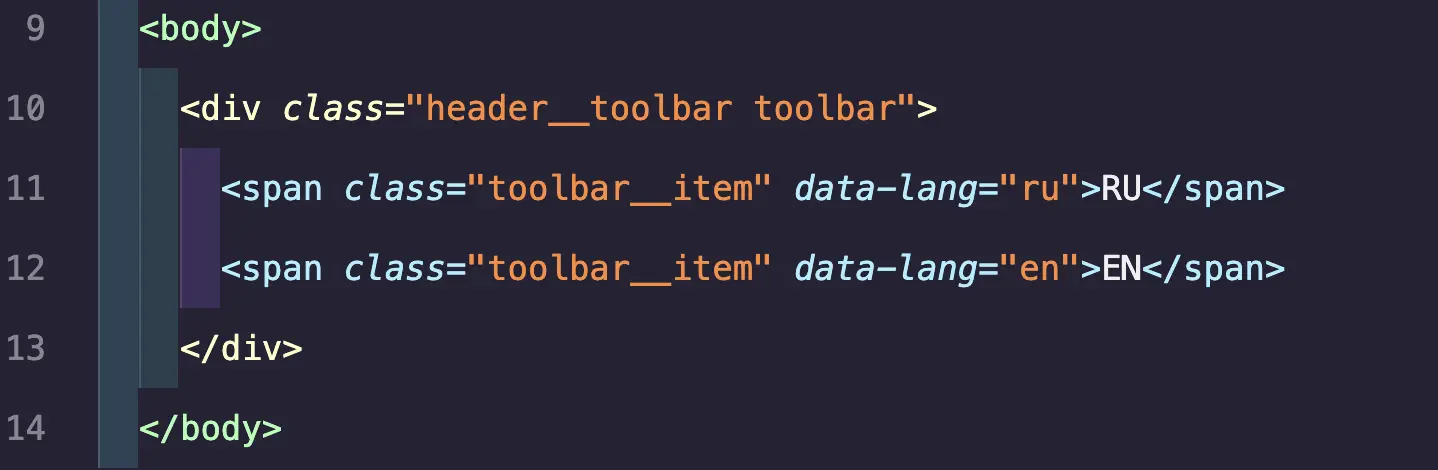
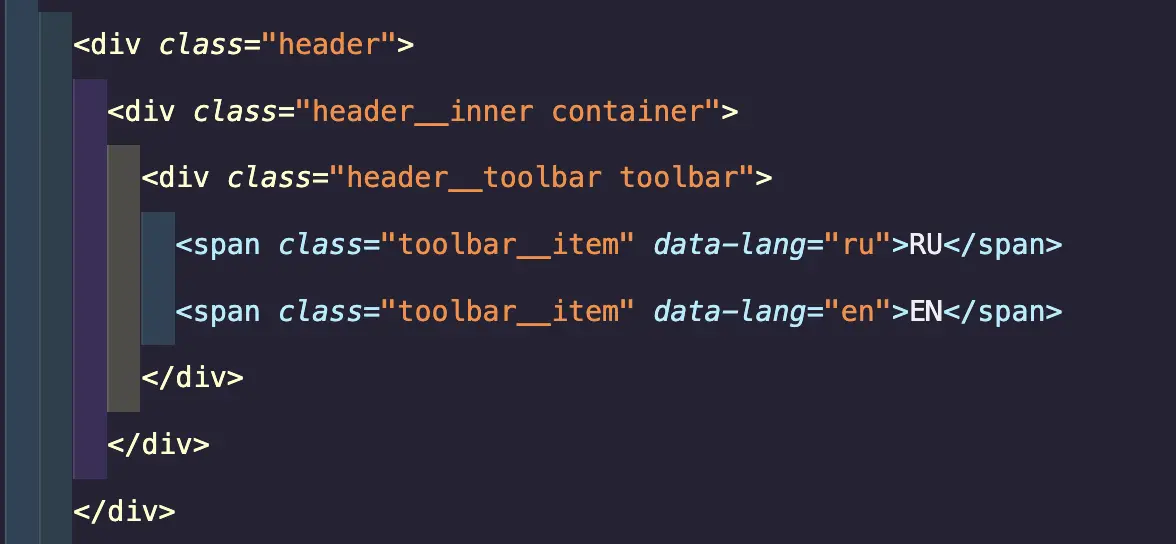
Добавление файлов gh-pages

Changed region(s): [[0.0, 0.0, 0.9184, 1.0]]

diff --git a/docs/about.html b/docs/about.html
@@ -1,0 +1,21 @@
+<!DOCTYPE html>
+<html lang="en">
+
+<head>
+    <meta charset="UTF-8" />
+    <meta name="viewport" content="width=device-width, initial-scale=1.0" />
+    <title>Document</title>
+</head>
+
+<body>
+    <div class="header">
+        <div class="header__inner container">
+            <div class="header__toolbar toolbar">
+                <span class="toolbar__item" data-lang="ru">RU</span>
+                <span class="toolbar__item" data-lang="en">EN</span>
+            </div>
+        </div>
+    </div>
+</body>
+
+</html>
